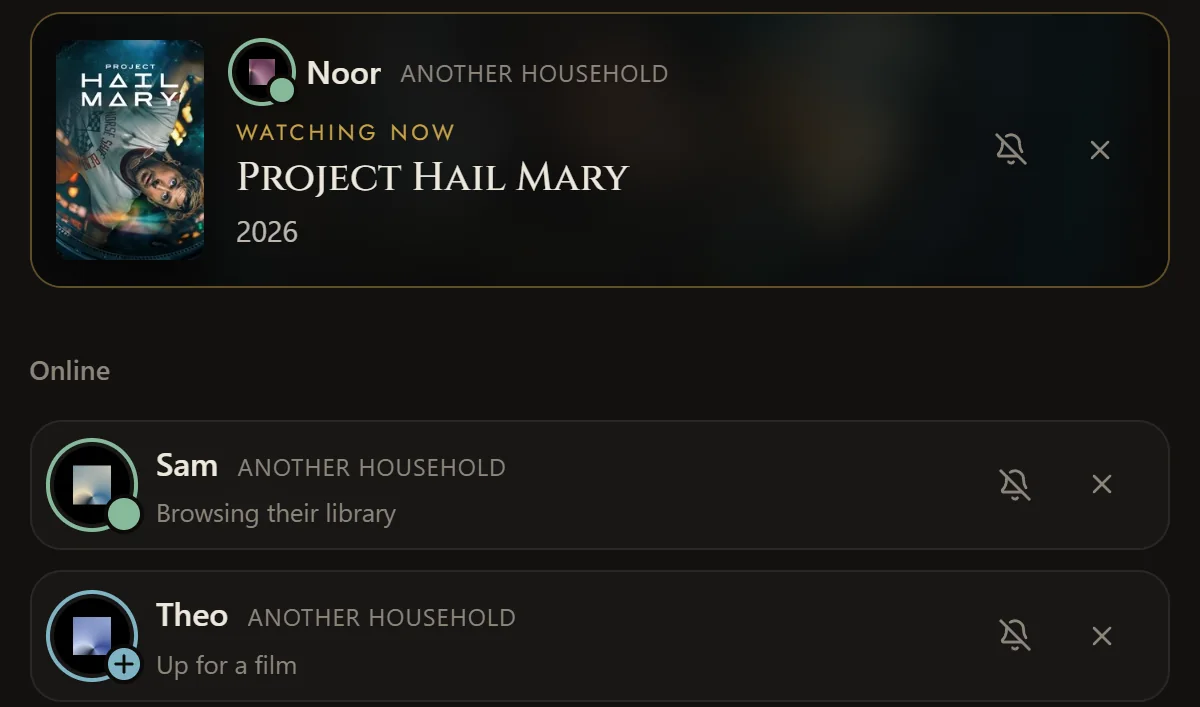
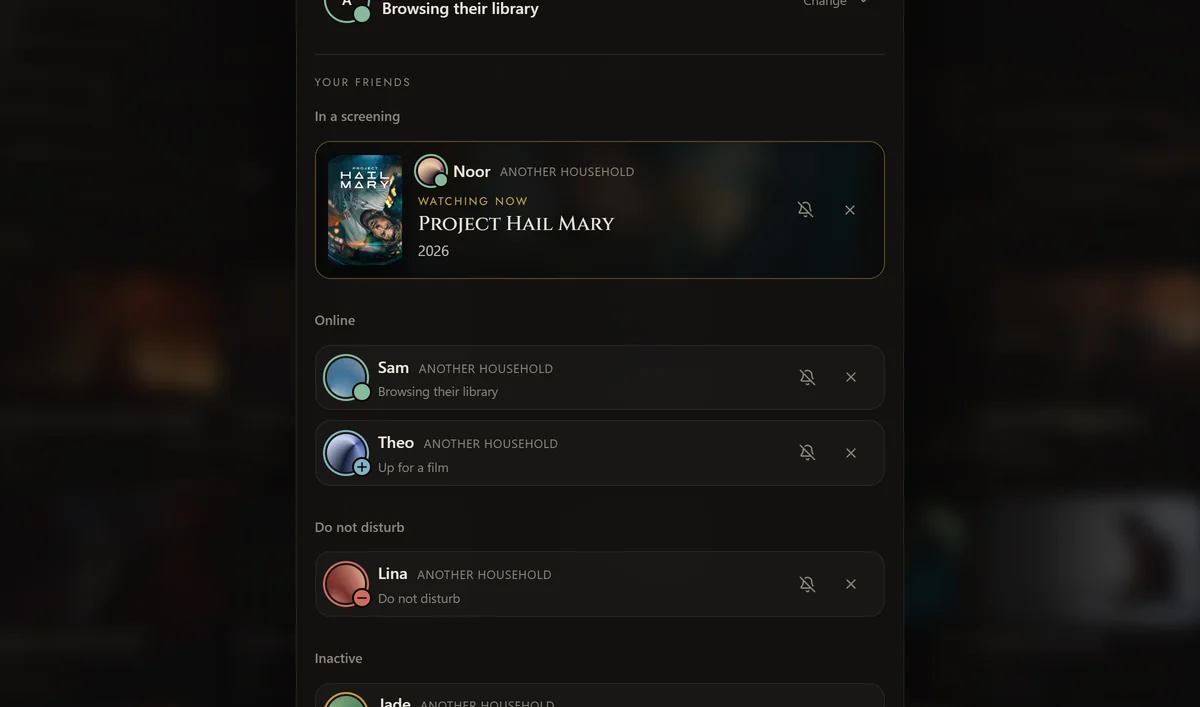
Add Android APK, update 5.0 screenshots, and fix release notes

diff --git a/site/pages/download.html b/site/pages/download.html
@@ -7,7 +7,7 @@
 <section id="download" class="section download-section" aria-labelledby="page-title">
   <div class="wrap">
     <div class="station">
-      <div class="station-top"><p class="step-label"><span aria-hidden="true">01</span>{{t:download.system}}</p><div class="os-switch" role="group" aria-label="{{t:download.system}}"><button class="os-pill" type="button" data-os-pill="windows" aria-pressed="true">{{logo:windows}}Windows</button><button class="os-pill" type="button" data-os-pill="macos" aria-pressed="false">{{logo:apple}}macOS</button><button class="os-pill" type="button" data-os-pill="linux" aria-pressed="false">{{logo:linux}}Linux</button></div></div>
+      <div class="station-top"><p class="step-label"><span aria-hidden="true">01</span>{{t:download.system}}</p><div class="os-switch" role="group" aria-label="{{t:download.system}}"><button class="os-pill" type="button" data-os-pill="windows" aria-pressed="true">{{logo:windows}}Windows</button><button class="os-pill" type="button" data-os-pill="macos" aria-pressed="false">{{logo:apple}}macOS</button><button class="os-pill" type="button" data-os-pill="linux" aria-pressed="false">{{logo:linux}}Linux</button><button class="os-pill" type="button" data-os-pill="android" aria-pressed="false">{{icon:phone}}Android</button></div></div>
       <p class="mobile-note">{{t:download.mobile}}</p>
       <p id="os-live" class="visually-hidden" aria-live="polite" data-showing="{{t:ui.showing}}"></p>
       {{block:download_panels}}

diff --git a/site/assets/js/site.js b/site/assets/js/site.js
@@ -209,7 +209,7 @@
   // ---- the download station: one system at a time; never the processor ----
   var pills = document.querySelectorAll("[data-os-pill]");
   var live = document.getElementById("os-live");
-  var names = { windows: "Windows", macos: "macOS", linux: "Linux" };
+  var names = { windows: "Windows", macos: "macOS", linux: "Linux", android: "Android" };
 
   function show(os, announce) {
     root.dataset.os = os;

diff --git a/site/pages/home.html b/site/pages/home.html
@@ -20,6 +20,7 @@
         <li>{{logo:windows}}<span>Windows</span></li>
         <li>{{logo:apple}}<span>macOS</span></li>
         <li>{{logo:linux}}<span>Linux</span></li>
+        <li>{{icon:phone}}<span>Android</span></li>
       </ul>
     </div>
     <div class="hero-foot">

diff --git a/site/assets/css/50-download.css b/site/assets/css/50-download.css
@@ -104,7 +104,8 @@
 }
 .js[data-os="windows"] #panel-windows,
 .js[data-os="macos"] #panel-macos,
-.js[data-os="linux"] #panel-linux {
+.js[data-os="linux"] #panel-linux,
+.js[data-os="android"] #panel-android {
   display: block;
 }
 .js .panel + .panel {

diff --git a/site/assets/PROVENANCE.md b/site/assets/PROVENANCE.md
@@ -80,9 +80,9 @@ empty frames where the library now shows itself. The friends crop was added on
 
 | Published file | What it is | Where it is used |
 | --- | --- | --- |
-| `img/shot-library.webp` | The *All movies* screen of the Windows player built from the 4.4.2 source, cropped to 4:3 below the navigation and scaled to 1200 x 900 | "A library that feels like yours", labelled *Screenshot* |
-| `img/shot-player.webp` | The same player during a sample film, the pointer on the playback bar at 2:02:17 with the timeline preview open, scaled to 1600 x 943 | "A player built for your files", labelled *Screenshot* |
-| `img/shot-friends.webp` | A 1200 x 707 crop of the real friends interface rendered in Edge against that same sample server, showing invented friends watching, online and up for a film | "Closer, even from a distance", labelled *Screenshot* |
+| `img/shot-library.webp` | The *All movies* screen of the player built from the 5.0 source, cropped and scaled to 1200 x 900 | "A library that feels like yours", labelled *Screenshot* |
+| `img/shot-player.webp` | The title page and video canvas during a sample film from the 5.0 source, scaled to 1600 x 943 | "A player built for your files", labelled *Screenshot* |
+| `img/shot-friends.webp` | A 1200 x 707 crop of the real friends interface in 5.0 rendered in Edge against the sample server, showing invented friends watching, online and up for a film | "Closer, even from a distance", labelled *Screenshot* |
 
 All come from the sample library described in `docs/screenshots/README.md` of the
 public repository: 132 recent films and 40 series, every file a two-second clip
@@ -93,16 +93,16 @@ film is a 2 h 46 min video made from the title's own TMDB backdrop, panned and z
 the picture in the player and in the preview is not the film. Nothing here was
 fetched from anywhere else, and no image of a real household or library is shown.
 
-The library and player pictures are native Windows captures. The friends picture
-is a crop of `e-friends.png` (2800 x 2300), taken on 20 October 2026 with the
-existing `scripts/sample-library/shoot-friends.mjs` bench. As documented beside
+The library and film pictures are captures from the 5.0 interface. The friends picture
+is a crop of `friends.png` (2800 x 2640), taken on 7 November 2026 with the
+existing `scripts/sample-library/shoot-readme.mjs` bench. As documented beside
 the README screenshots, that browser bench marks the sample friends as living
 in another household and the service as reachable; Firebase is blocked. It is
 an interface capture with sample data, not evidence of a real network session.
-The source SHA-256 is
[1 lines of base64/hex data omitted]
-the published WebP SHA-256 is
[1 lines of base64/hex data omitted]
+The published WebP SHA-256 digests are:
[3 lines of base64/hex data omitted]
 
 The site uses the player's 1600:943 aspect ratio for its three screenshot
 windows, with cover fitting anchored at the top. The player stays entirely
@@ -110,9 +110,9 @@ visible; the library is cropped at the bottom. Captions sit below the images
 instead of covering the playback controls. No screenshot is stretched or padded.
 
 ```sh
-ffmpeg -i n-movies.png -vf "crop=1680:1260:60:392,scale=1200:900:flags=lanczos"   -c:v libwebp -quality 84 -compression_level 6 shot-library.webp
-ffmpeg -i n-timeline.png -vf "scale=1600:943:flags=lanczos"   -c:v libwebp -quality 84 -compression_level 6 shot-player.webp
-ffmpeg -i e-friends.png -vf "crop=1200:707:800:670" -c:v libwebp -quality 84 -compression_level 6 shot-friends.webp
+ffmpeg -i library.png -vf "crop=2200:1650:300:0,scale=1200:900:flags=lanczos" -c:v libwebp -quality 84 -compression_level 6 shot-library.webp
+ffmpeg -i film.png -vf "scale=1600:943:flags=lanczos" -c:v libwebp -quality 84 -compression_level 6 shot-player.webp
+ffmpeg -i friends.png -vf "crop=2400:1414:200:400,scale=1200:707:flags=lanczos" -c:v libwebp -quality 84 -compression_level 6 shot-friends.webp
 ```
 
 ## The recording

diff --git a/docs/releases/v5.0.0.md b/docs/releases/v5.0.0.md
@@ -110,16 +110,16 @@ those two things for friends; showing them before acceptance changes nothing els
 and nothing about their library, their viewing or their opinions is readable until
 they accept.
 
-### La connexion se souvient de tes serveurs
+### The connect screen remembers your servers
 
-L'écran de connexion garde la liste des serveurs que tu as déjà rejoints : un clic
-et tu es de retour, sans retaper d'adresse. La recherche sur le réseau reste là et
-dit ce qu'elle trouve ; l'adresse ne se saisit qu'en dernier recours. En fond, un
-champ de glyphes animé, dessiné par la page - aucune image ajoutée - et un simple
-arrêt sur image si tu as demandé moins d'animations. Le démarrage reprend la même
-carte et la même promesse, avec un halo de laiton qui respire derrière le titre et
-trois points discrets près de la phrase ; la connexion à un serveur montre un
-spinner pendant qu'il répond.
+The connect screen keeps the list of servers you have already joined: one click
+and you are back, without retyping an address. Network discovery stays right
+there and reports what it finds; the address field is only for a fallback. In the
+background, an animated glyph field drawn by the page itself - no external image
+added - and a clean still frame if you requested reduced motion. The cold start
+uses the same card and the same promise, with a breathing brass glow behind the
+title and three quiet dots beside the line; connecting to a server shows a
+spinner while it answers.
 
 ### One page for every title
 
